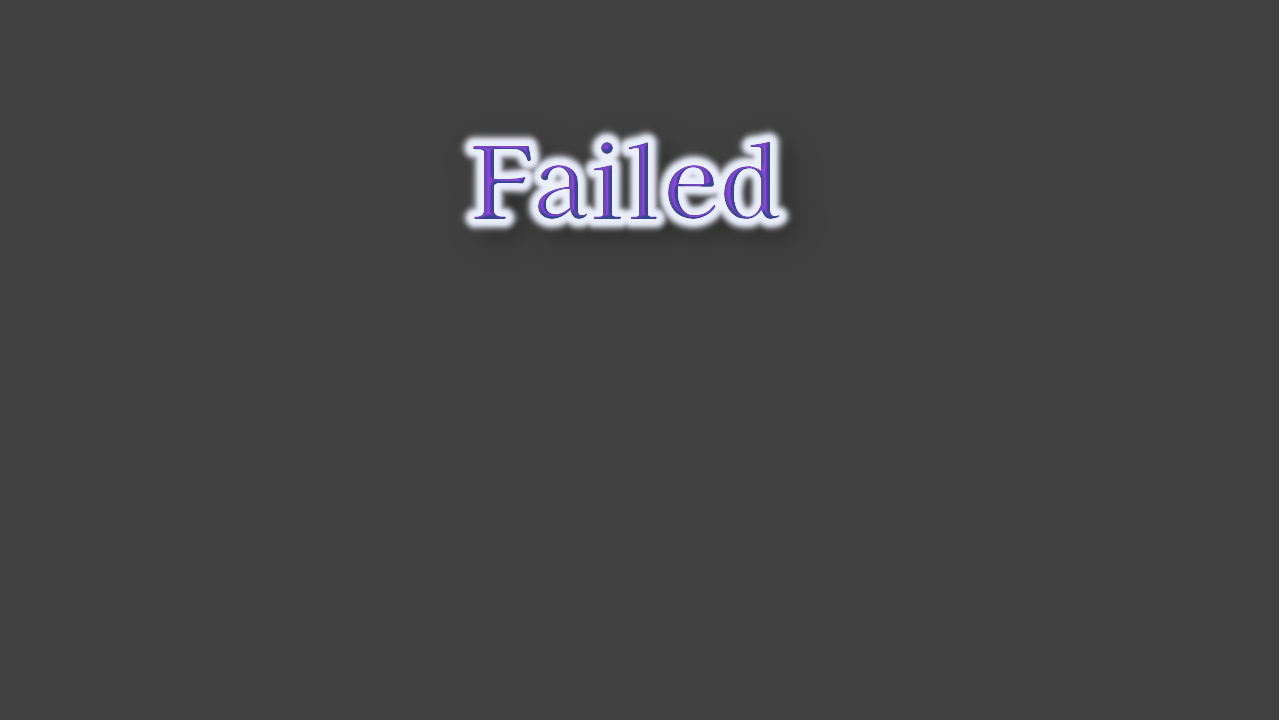
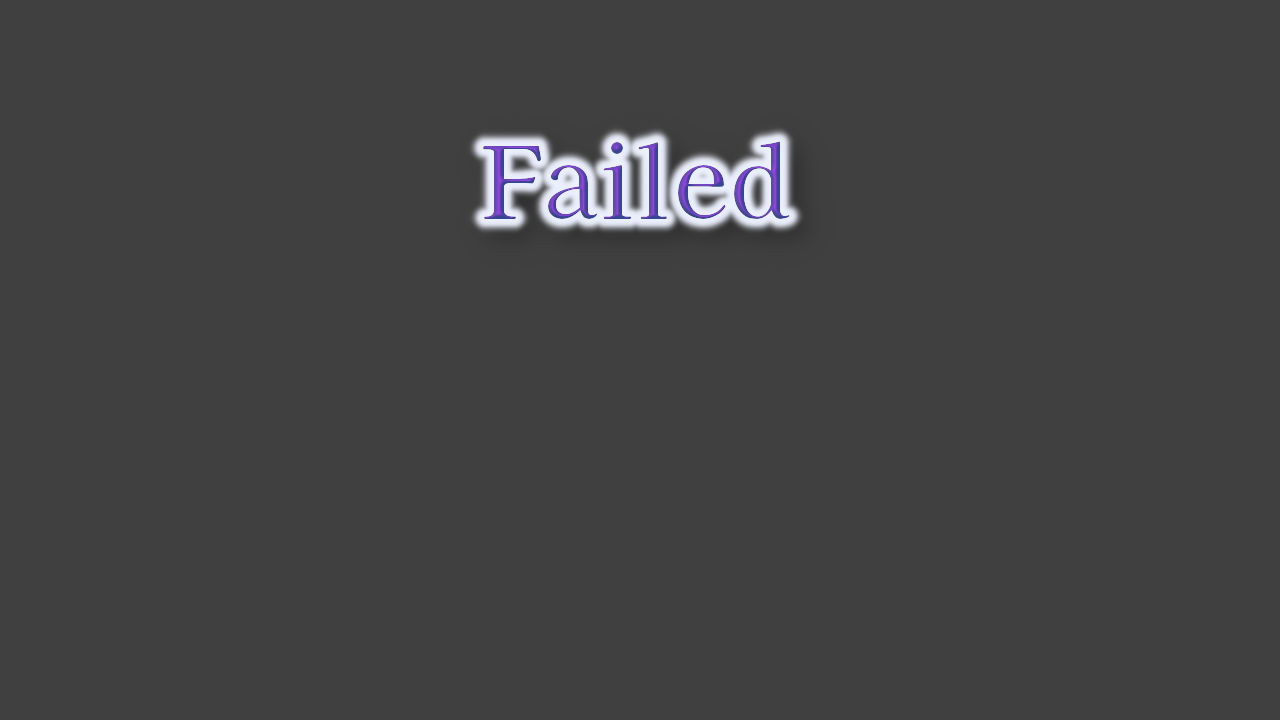
failedの右端の余白を消去、タイトルとリザルト得dカメラがその場で回転するように。

Changed region(s): [[0.3438, 0.1833, 0.625, 0.3361]]

diff --git a/RailSTG/RailCamera/RailCameraController.cpp b/RailSTG/RailCamera/RailCameraController.cpp
@@ -145,37 +145,53 @@ void RailCameraController::AdvanceProgress() {
 }
 
 void RailCameraController::Update() {
-	AdvanceProgress();
+	if (isIdleRotating_) {
+		// レール移動はせず、その場でY軸回転だけ進める
+		float deltaTime = TimeManager::GetDeltaTime();
+		rotate_.y += idleRotateSpeed_ * deltaTime;
 
-	if (wayPoints_.size() >= 2) {
-		// Catmull-Romは前後2点ずつ、計4点(P0, P1, P2, P3)を使ってP1→P2の間を滑らかに補間する。
-		// 先頭/末尾の区間で「前後の点」が存在しない場合は、無い方をP1(またはP2)自身で
-		// 複製して代用する(これが一番シンプルなCatmull-Romの端点処理)。
-		size_t count = wayPoints_.size();
+		// 1回転(2π)を超えたら即座に0へ戻す(見た目上は巻き戻りが分からないのでOK)
+		constexpr float kTwoPi = 6.28318530718f;
+		if (rotate_.y >= kTwoPi) {
+			rotate_.y = 0.0f;
+		}
 
-		size_t i1 = currentIndex_;
-		size_t i2 = currentIndex_ + 1;
-		size_t i0 = (i1 == 0) ? i1 : i1 - 1;
-		size_t i3 = (i2 + 1 < count) ? i2 + 1 : i2;
-
-		const Vector3& p0 = wayPoints_[i0];
-		const Vector3& p1 = wayPoints_[i1];
-		const Vector3& p2 = wayPoints_[i2];
-		const Vector3& p3 = wayPoints_[i3];
-
-		// 位置: Catmull-Romスプラインで滑らかに補間(以前のLerpからここが変わった部分)
-		translate_ = CatmullRomPosition(p0, p1, p2, p3, segmentT_);
-
-		// 向き: スプラインの接線方向(その瞬間の進行方向)を向かせる。
-		// 区間の切り替わりでも接線が連続的に変化するので、以前のような
-		// 「区間ごとの向きがカクッと切り替わる」現象が起きなくなる。
-		Vector3 direction = Normalize(CatmullRomTangent(p0, p1, p2, p3, segmentT_));
-		currentDirection_ = direction;
-		rotate_.y = atan2f(direction.x, direction.z);
-		float horizontalLength = sqrtf(direction.x * direction.x + direction.z * direction.z);
-		rotate_.x = atan2f(-direction.y, horizontalLength);
-		// ロール(Z軸の傾き)は今回も未使用。
+		// レール移動中の傾き(ピッチ/ロール)を引き継がないよう水平に固定
+		rotate_.x = 0.0f;
 		rotate_.z = 0.0f;
+	} else {
+		AdvanceProgress();
+
+		if (wayPoints_.size() >= 2) {
+			// Catmull-Romは前後2点ずつ、計4点(P0, P1, P2, P3)を使ってP1→P2の間を滑らかに補間する。
+			// 先頭/末尾の区間で「前後の点」が存在しない場合は、無い方をP1(またはP2)自身で
+			// 複製して代用する(これが一番シンプルなCatmull-Romの端点処理)。
+			size_t count = wayPoints_.size();
+
+			size_t i1 = currentIndex_;
+			size_t i2 = currentIndex_ + 1;
+			size_t i0 = (i1 == 0) ? i1 : i1 - 1;
+			size_t i3 = (i2 + 1 < count) ? i2 + 1 : i2;
+
+			const Vector3& p0 = wayPoints_[i0];
+			const Vector3& p1 = wayPoints_[i1];
+			const Vector3& p2 = wayPoints_[i2];
+			const Vector3& p3 = wayPoints_[i3];
+
+			// 位置: Catmull-Romスプラインで滑らかに補間(以前のLerpからここが変わった部分)
+			translate_ = CatmullRomPosition(p0, p1, p2, p3, segmentT_);
+
+			// 向き: スプラインの接線方向(その瞬間の進行方向)を向かせる。
+			// 区間の切り替わりでも接線が連続的に変化するので、以前のような
+			// 「区間ごとの向きがカクッと切り替わる」現象が起きなくなる。
+			Vector3 direction = Normalize(CatmullRomTangent(p0, p1, p2, p3, segmentT_));
+			currentDirection_ = direction;
+			rotate_.y = atan2f(direction.x, direction.z);
+			float horizontalLength = sqrtf(direction.x * direction.x + direction.z * direction.z);
+			rotate_.x = atan2f(-direction.y, horizontalLength);
+			// ロール(Z軸の傾き)は今回も未使用。
+			rotate_.z = 0.0f;
+		}
 	}
 
 

diff --git a/RailSTG/Scene/SceneManager.cpp b/RailSTG/Scene/SceneManager.cpp
@@ -17,6 +17,7 @@ void SceneManager::Initialize(Scene sceneState) {
     // ゲームカメラ(レール自動移動カメラ)
     camera_ = std::make_unique<RailCameraController>();
     camera_->Initialize();
+    camera_->SetTranslate({ 0.0f,153.0f,-25.0f });
     camera_->SetActive(true);
 
     RouteInitialize();
@@ -42,6 +43,7 @@ void SceneManager::Initialize(Scene sceneState) {
 
     // シーン（enum）
     scene_ = sceneState;
+    camera_->SetIdleRotate(scene_ != Scene::Game); // Game以外はその場回転
 
     // 起動時(Title)はフェードインから始める
     fade_.StartFadeIn(kFadeInDurationFrames_);
@@ -87,6 +89,7 @@ void SceneManager::Update() {
     if (fade_.IsFadeOutJustFinished()) {
         scene_ = pendingScene_;
         fade_.StartFadeIn(kFadeInDurationFrames_);
+        camera_->SetIdleRotate(scene_ != Scene::Game); // 追加: Game以外はその場回転
         if (pendingScene_ == Scene::Game) {
             camera_->SetTranslate({ 0.0f,153.0f,-25.0f });
             GameSound::StopBGM(GameSound::BGM::Title);

diff --git a/RailSTG/RailCamera/RailCameraController.h b/RailSTG/RailCamera/RailCameraController.h
@@ -57,6 +57,13 @@ public:
 	/// <param name="duration">直進させたい時間(秒)。moveSpeed_×durationの距離だけ直進する</param>
 	void EnterChangingStraight(float duration);
 
+	/// <summary>
+	/// その場で回転し続ける「アイドル回転」モードの有効/無効を切り替える
+	/// (Title/Resultなど、レール移動をさせたくない場面で使う想定)
+	/// </summary>
+	void SetIdleRotate(bool enable) { isIdleRotating_ = enable; }
+	bool IsIdleRotating() const { return isIdleRotating_; }
+
 private:
 	/// <summary>
 	/// 現在区間内の進行度を進め、区間をまたいだらインデックスを送る
@@ -81,4 +88,10 @@ private:
 
 	// 仮想P0を置く距離を「次区間長の何割にするか」
 	static constexpr float kVirtualP0Ratio_ = 1.0f;
+
+	// アイドル回転モード中か(trueの間はレール移動をせず、その場でY軸回転だけ行う)
+	bool isIdleRotating_ = false;
+
+	// アイドル回転の速度(ラジアン/秒)
+	float idleRotateSpeed_ = 0.05f;
 };
